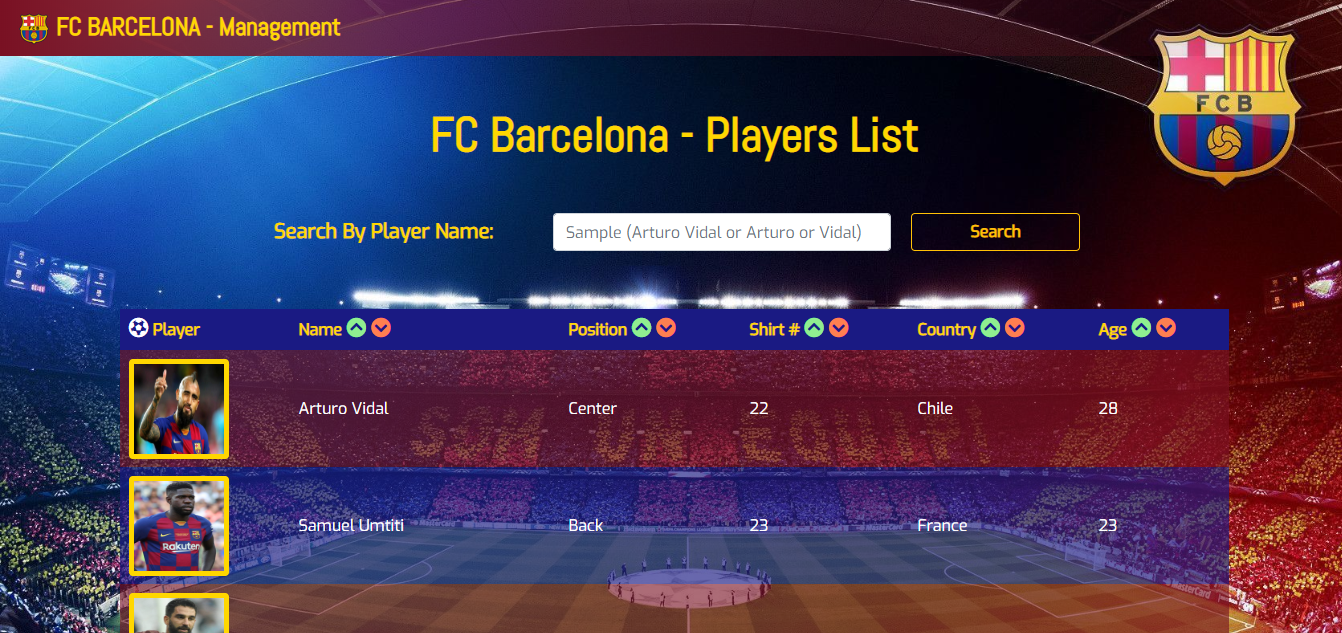
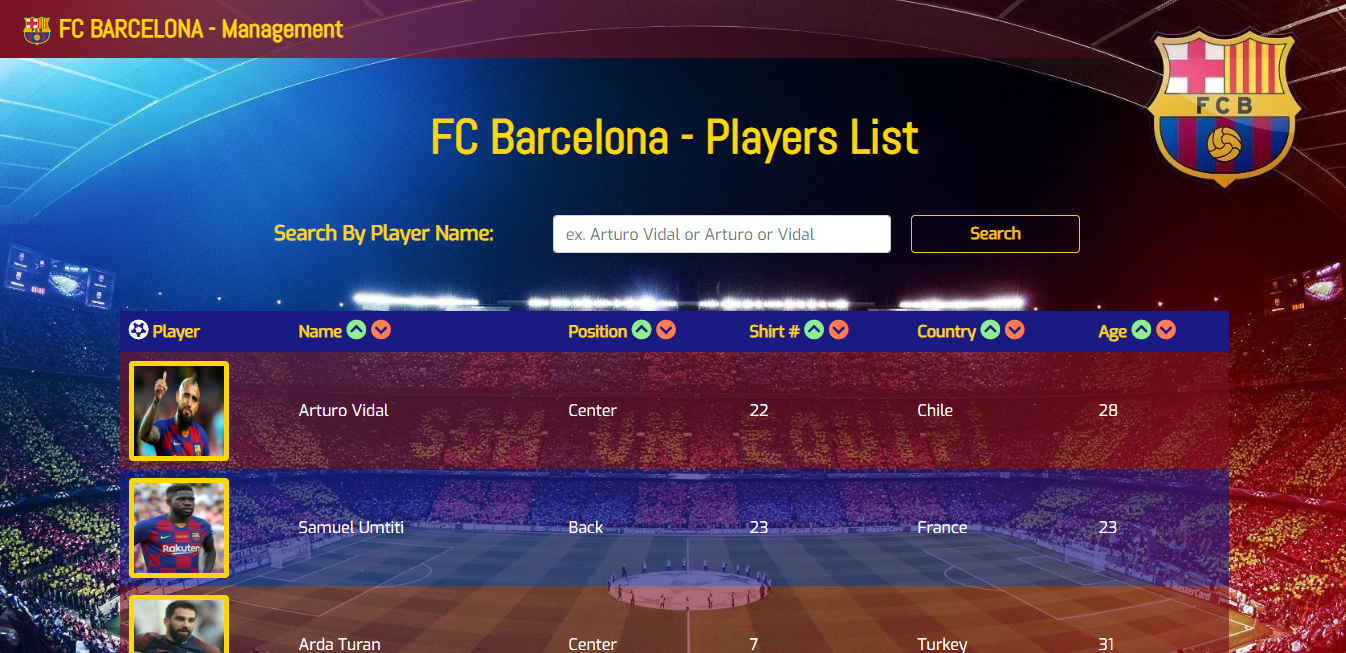
Deploy to github pages and readme added, project completed

diff --git a/README.md b/README.md
@@ -1,19 +1,21 @@
-# Employees Directory ![Diego](https://img.shields.io/badge/version-v1.0.0-yellow) ![code size](https://img.shields.io/github/languages/code-size/diegolehyt/Budget-Tracker) ![language](https://img.shields.io/github/languages/top/diegolehyt/Budget-Tracker) ![last comit](https://img.shields.io/github/last-commit/diegolehyt/Budget-Tracker) ![vulnerabilities](https://img.shields.io/snyk/vulnerabilities/github/diegolehyt/Budget-Tracker) 
-### Homework - 18 / Online/Offline Budget Tracker
+# Employee Directory ![Diego](https://img.shields.io/badge/version-v1.0.0-yellow) ![code size](https://img.shields.io/github/languages/code-size/diegolehyt/Employee-Directory) ![language](https://img.shields.io/github/languages/top/diegolehyt/Employee-Directory) ![last comit](https://img.shields.io/github/last-commit/diegolehyt/Employee-Directory)  
+### Homework - 19 / Employee Directory with React app
 
 - Link to Deploy app, at the end. [>> GO ⬇ <<](#url)
 
 ![main](src/assets/1.png)
 
-- B!
-- ONLINE
-
-![online](public/icons/2.gif)
+- Directory of all players from FC Barcelona main soccer team!
 
 
-- OFFLINE
+- Search by Player Name
 
-![offline](public/icons/3.gif)
+![online](src/assets/2.gif)
+
+
+- Sort by All categories Ascending and Descending order
+
+![offline](src/assets/3.gif)
 
 
 ## 📌Table of Content
@@ -30,27 +32,26 @@
 * [Questions](#questions)
 
 ## 📋Description
-"Budget Tracker" is a web application that can help you keep track of your general budget. Giving users a fast and easy way to track their money, allowing them to access that information anytime is even more important. Having offline functionality is paramount to this application success. Powered by MongoDB (online), indexDB (offline) and javascript (front and back end).
+"Employee Directory" is a web application builded using React App (front end). Giving users a fast and easy way to track their employees non-sensitive data, allowing them to access that information anytime. Having the functionality of filter employees by name, last or full-name, plus sort them by any category in ascending and descending order. Powered by React framework.
 ```
-GIVEN a user is on Budget App without an internet connection
-WHEN the user inputs a withdrawal or deposit
-THEN that will be shown on the page, 
-and added to their transaction history when their connection is back online.
+An employee or manager would benefit greatly 
+from being able to view non-sensitive data about other employees. 
+It would be particularly helpful to be able to filter employees by name..
 ```
-- Open the application using "command line", (recomended: GitBash).
+- Open the application using the URL on your Browser (recomended: Google Chrome).
 
 
 ## 💿Installation
-    1. Install node.js  
-    2. Clone the repository
-    3. npm install
+  1. Clone the repository 
+  2. npm install
+  3. open app using gitbash ```npm start```
 
 ## ▶Usage
 Open the server app using ```node server``` in your terminal (root repo).   
 
 ## 📊Test
  ```
- npm run test (None).
+ npm run test. (included with React app)
  ```
 
 
@@ -62,22 +63,22 @@ This project is under the MIT License.
 
 ## 📑Details
 
-This repository content the files: JavaScript "server.js" (main app), Mit license"LICENSE.txt", "package.json", "package-lock.json", models, node_modules", db, public, views folder and an "images" folder with the captures and gifs for this Readme File.
+This repository content the files: JavaScript "App.js" and "index.js (main app) inside the src folder, plus all components used to build this app (all with their respective style.css file), Mit license"LICENSE.txt", "package.json", "package-lock.json", models, node_modules", an "assets" folder with the captures and gifs for this Readme File.
 
 ## 📀Features
-- MDB styles
+- Bootstrap styles
 
-  ![neon](public/icons/4.gif)
+  ![neon](src/assets/4.gif)
 
 
 ## 🔗URL  
 
 - Check my Demos on my Youtube page "https://www.youtube.com/channel/UCev6xJU1FGx1IbRjQhtjKcQ"
-- The URL to this repo page is "https://github.com/diegolehyt/Budget-Tracker.git"
-- Deploy App on Heroku page Here! --> "https://murmuring-journey-67575.herokuapp.com/" <--
+- The URL to this repo page is "https://github.com/diegolehyt/Employee-Directory.git"
+- Deploy App on GitHub pages Here! --> "https://diegolehyt.github.io/Employee-Directory/" <--
 
 ## 👤Questions  
-![youtube](https://img.shields.io/badge/YouTube-red?style=flat&logo=youtube)  ![Heroku](https://img.shields.io/badge/Heroku-purple?style=flat&logo=heroku)  ![MongoDB](https://img.shields.io/badge/MongoDB-black?style=flat&logo=mongodb)  ![Social](https://img.shields.io/github/followers/diegolehyt?style=social) 
+![youtube](https://img.shields.io/badge/YouTube-red?style=flat&logo=youtube)  ![React](https://img.shields.io/badge/React-gray?style=flat&logo=react)  ![Social](https://img.shields.io/github/followers/diegolehyt?style=social) 
 
 ![Profile img](https://avatars1.githubusercontent.com/u/59458188?v=4)
 
